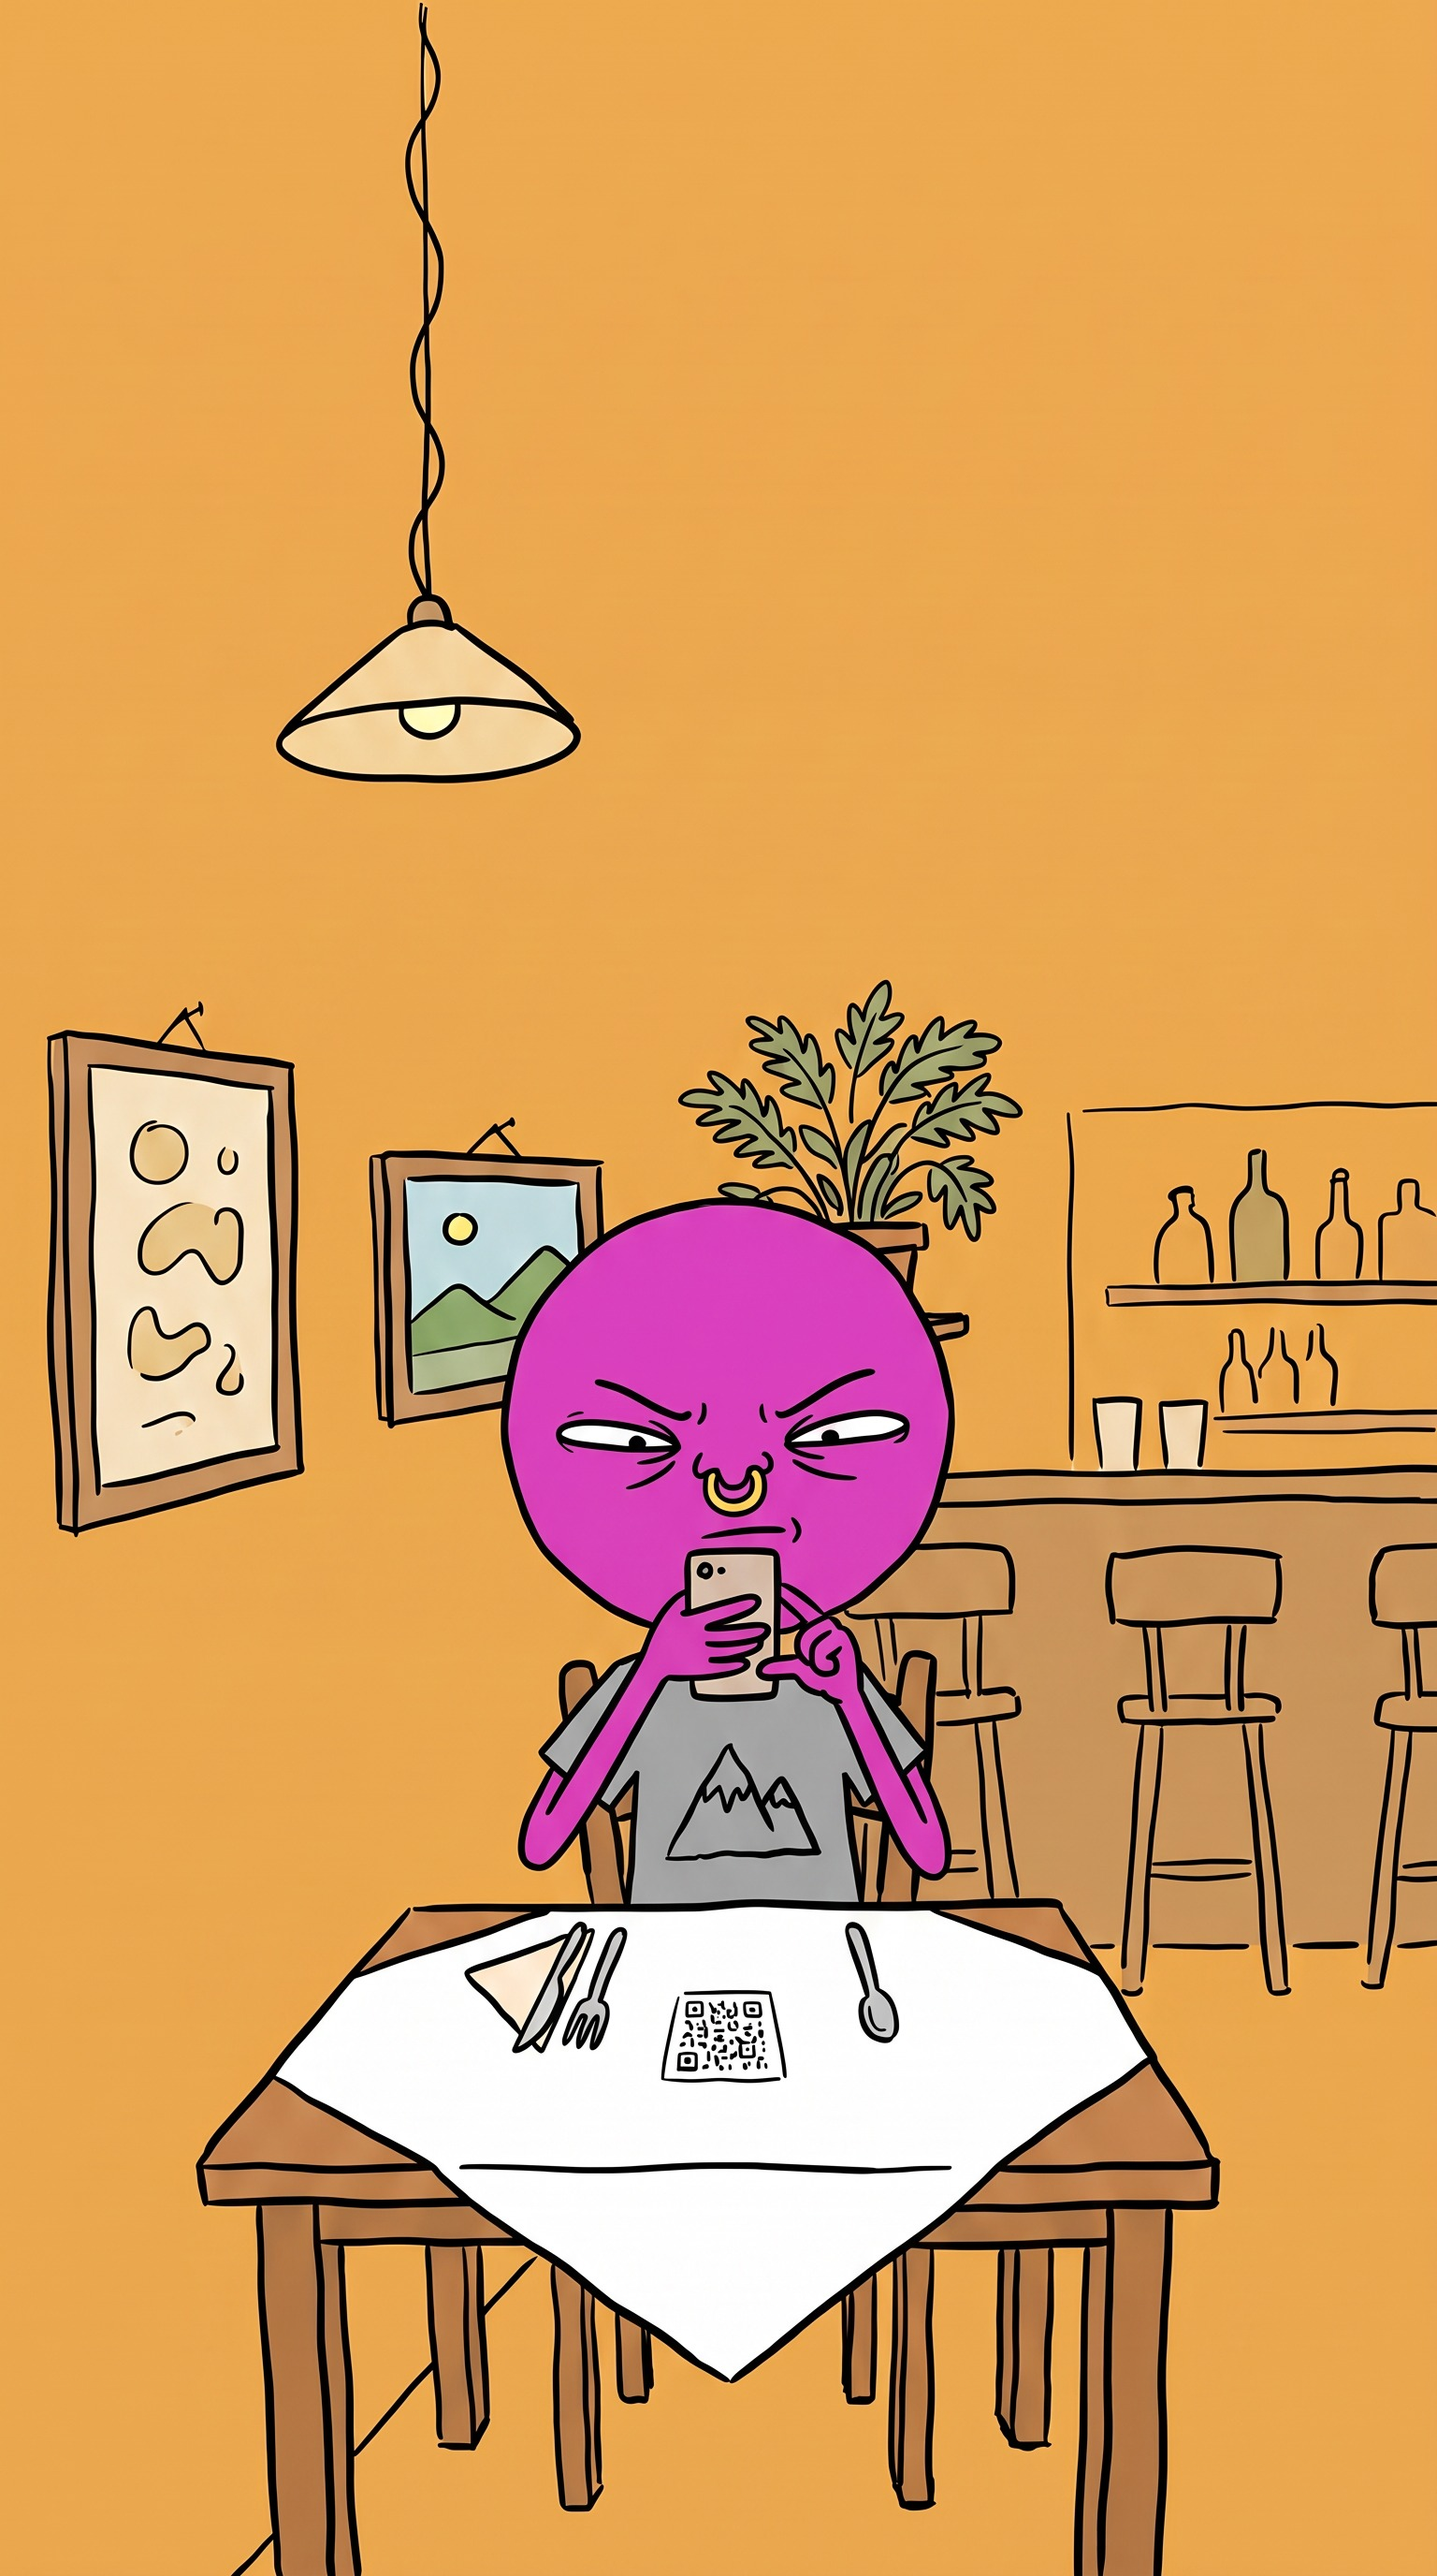
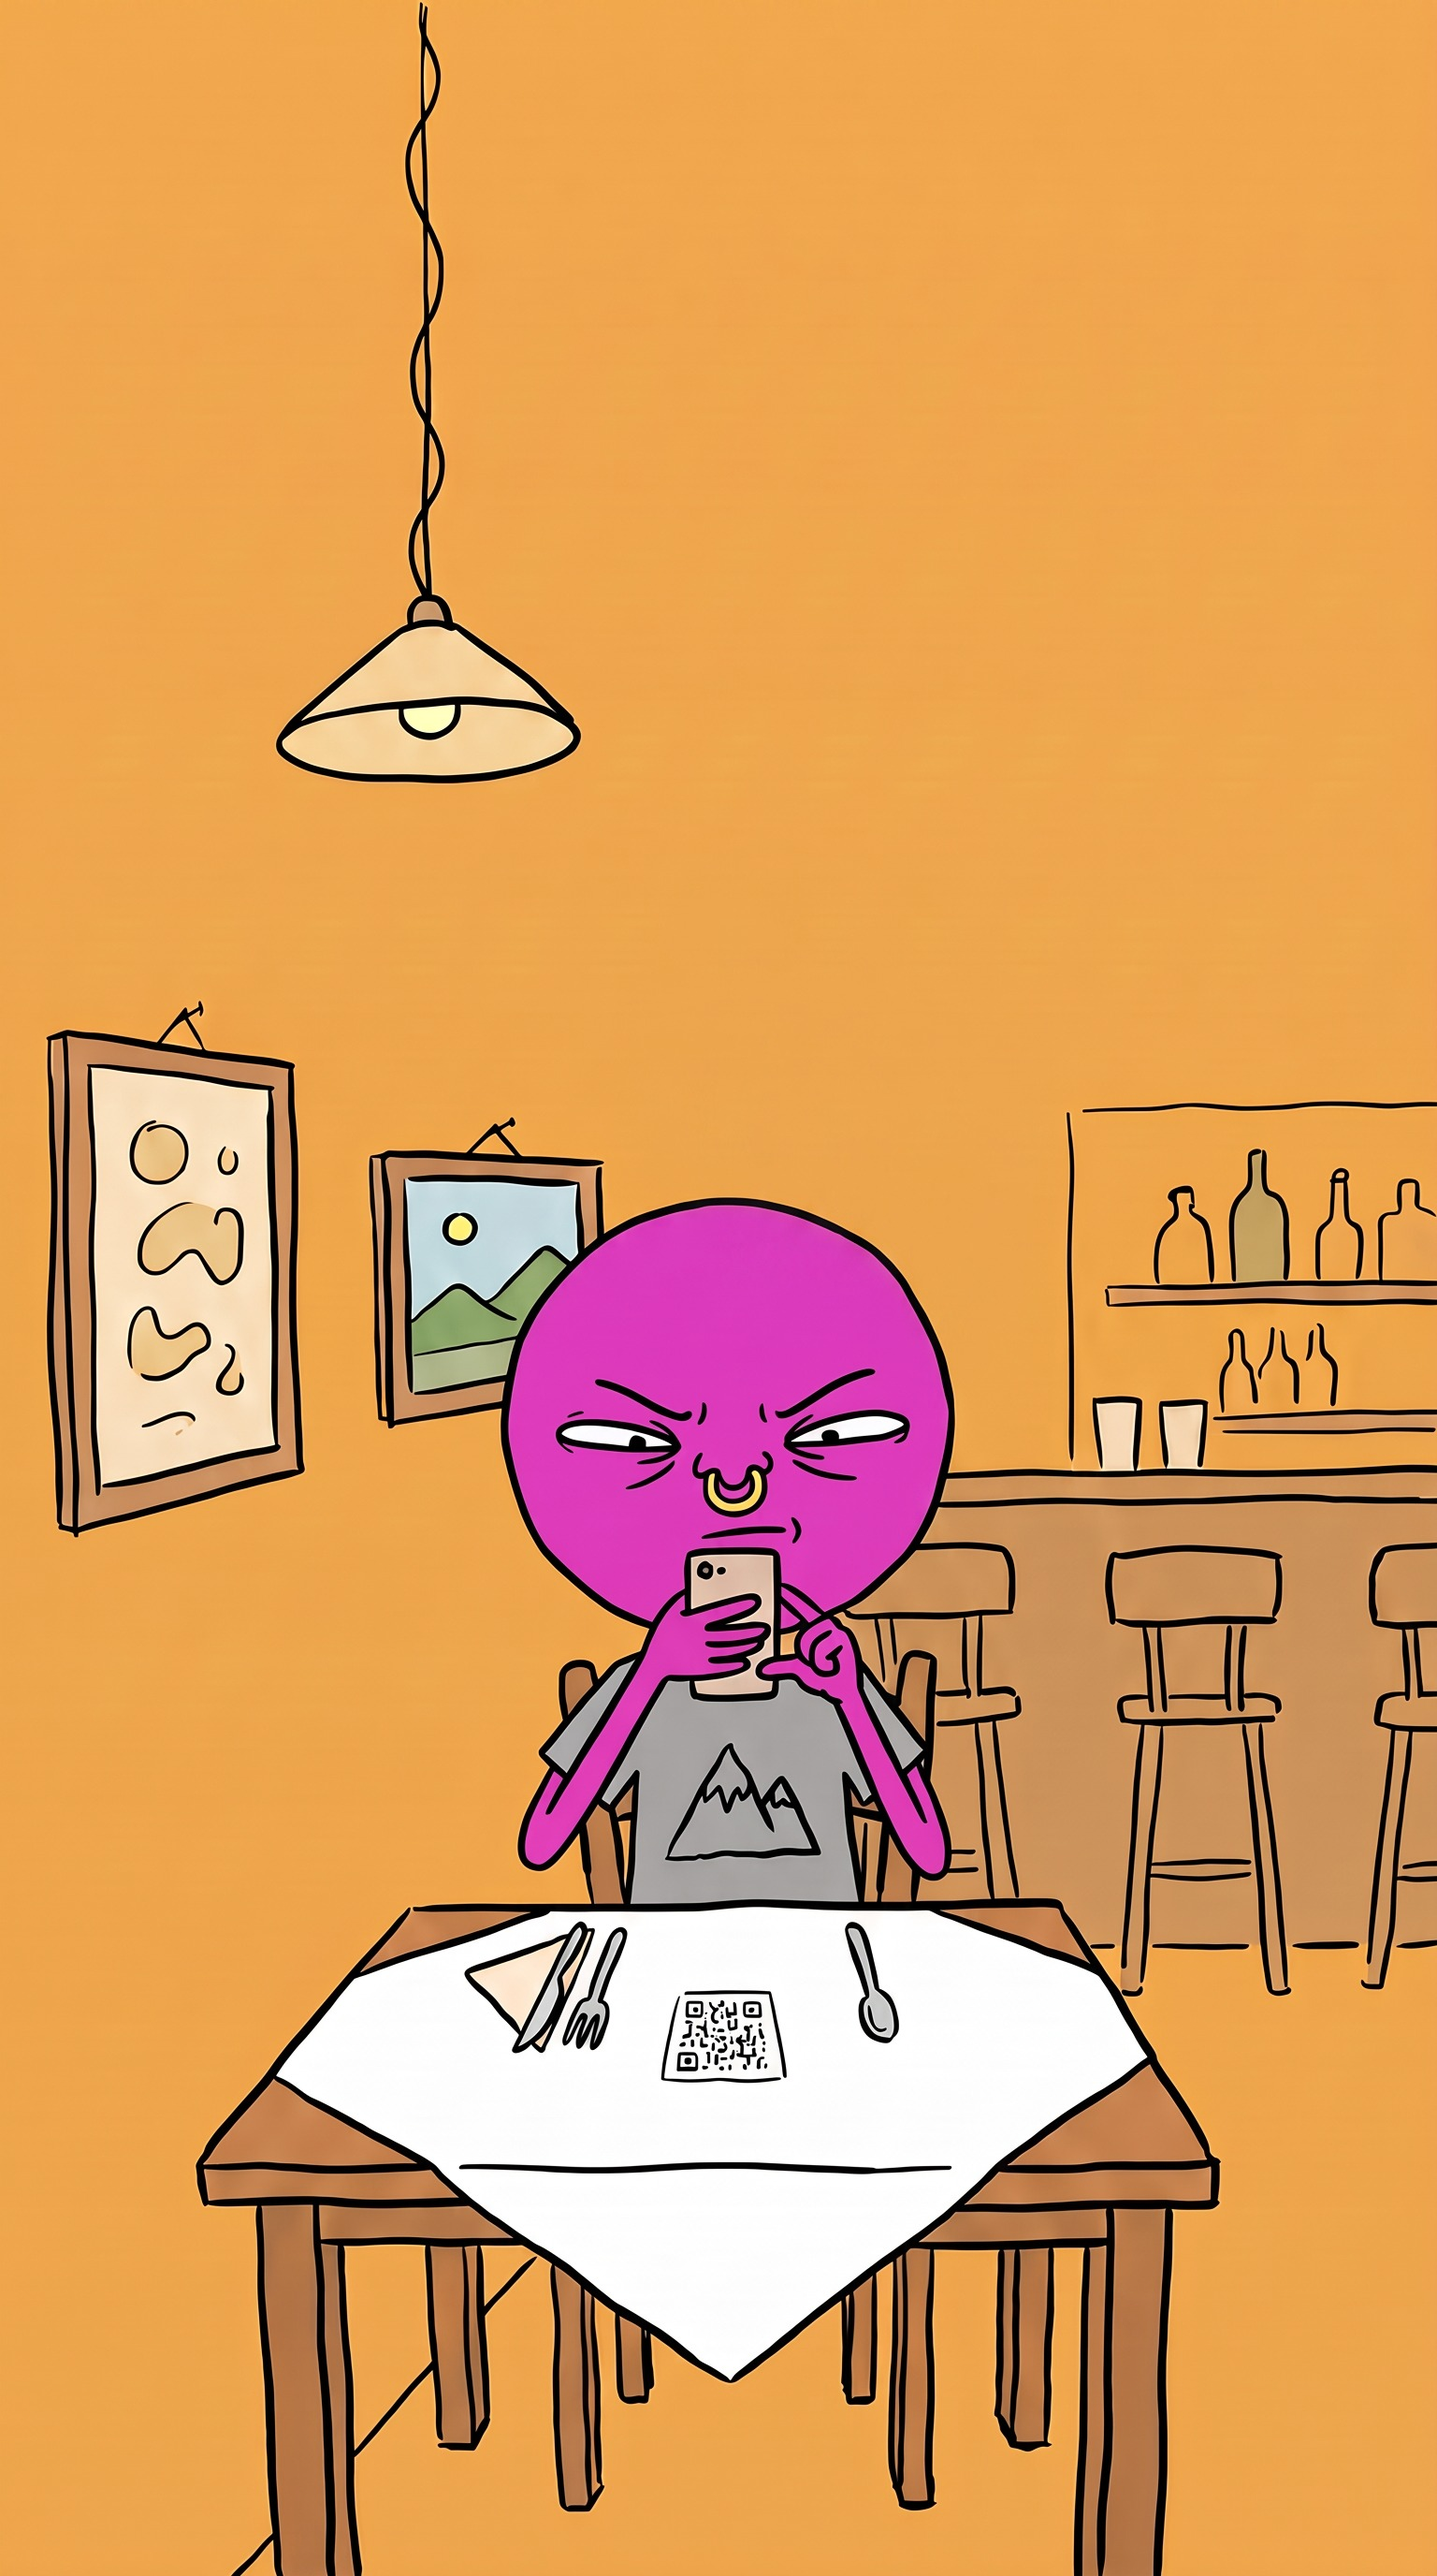
Vídeo del QR: sin la planta detrás de la cabeza, PDF sin letras falsas, plano nuevo en el formulario, final animado
Claude-Session: https://claude.ai/code/session_01W1d2B3tJHY5s1jRup8PdJX

Changed region(s): [[0.4688, 0.375, 0.7188, 0.5312], [0.4688, 0.7812, 0.5312, 0.8125], [0.375, 0.75, 0.4062, 0.7812]]

diff --git a/herramientas/video/qr_restaurante/plan.py b/herramientas/video/qr_restaurante/plan.py
@@ -22,17 +22,19 @@ P = [
  movil('br_cookies', 7.74, rotulos=[R(8.95, 'COOKiES', 540, 120, 'negro', 120)]),
  esc('es_cubiertos', 9.85, cambios=[ch(11.44, 'es_cubiertos_b')], boca_en=[I + 'es_cubiertos.jpg', I + 'es_cubiertos_b.jpg']),
  movil('br_acepto', 12.25),
- movil('br_form', 13.33, rotulos=[R(13.94, 'REGÍSTRATE', 540, 110, 'negro', 110),
-                                  D(16.25, 'NOMBRE', 960, 1124), D(16.81, 'CORREO', 960, 1356), D(17.6, 'FECHA', 960, 1581)]),
+ movil('br_form', 13.33, rotulos=[R(13.94, 'REGÍSTRATE', 540, 110, 'negro', 110)]),
+ esc('es_lee', 14.6, rotulos=[R(15.0, 'MEJOR EXPERiENCiA', 540, 150, 'negro', 85, caja=True)]),
+ movil('br_form', 16.2, rotulos=[R(15.6, 'REGÍSTRATE', 540, 110, 'negro', 110),
+                                 D(16.25, 'NOMBRE', 960, 1124), D(16.81, 'CORREO', 960, 1356), D(17.6, 'FECHA', 960, 1581)]),
  esc('es_serio', 18.88),
  movil('br_codigo', 20.09, cambios=[ch(22.15, 'br_cerrada')],
        rotulos=[D(20.56 + 0.12 * i, c, x, 1337, 'negro', 85, t1=22.15) for i, (c, x) in enumerate(zip('4815', (716, 880, 1045, 1201)))]),
  esc('es_escanea', 22.72, cambios=[ch(24.6, 'es_escanea_b')], boca_en=[I + 'es_escanea.jpg', I + 'es_escanea_b.jpg']),
  movil('br_pdf', 25.22, rotulos=[R(26.96, 'PDF', 540, 110, 'rojo', 160)]),
  esc('es_zum', 27.71, habla=False),
- br('br_pdf', 29.05, zoom=3.0, cx=0.494, cy=0.466, rotulos=[R(29.09, 'POSTRES', 540, 140, 'rojo', 130, caja=True)]),
+ br('br_pdf_postres', 29.05, zoom=1.0, rotulos=[R(29.09, 'POSTRES', 540, 140, 'rojo', 130, caja=True)]),
  esc('es_zum_b', 30.13, habla=False),
- br('br_pdf', 31.7, zoom=4.0, cx=0.5, cy=0.56, rotulos=[R(31.74, 'AViSO LEGAL', 540, 140, 'rojo', 120, caja=True)]),
+ br('br_pdf_legal', 31.7, zoom=1.0, rotulos=[R(31.74, 'AViSO LEGAL', 540, 140, 'rojo', 120, caja=True)]),
  esc('es_camarero', 32.87, zoom=1.25, cx=0.55, cambios=[ch(36.18, 'es_camarero_b')],
      boca_en=[I + 'es_camarero.jpg', I + 'es_camarero_b.jpg'], rotulos=[R(37.2, 'QR', 540, 130, 'negro', 140)]),
  br('br_memoria', 38.1, zoom=1.05, alterna=alt('br_memoria', 'br_memoria_b', 0.35)),
@@ -45,7 +47,7 @@ P = [
  esc('es_seguro', 49.98, cambios=[ch(52.1, 'es_seguro_b')], boca_en=[I + 'es_seguro.jpg', I + 'es_seguro_b.jpg']),
  esc('es_barra', 53.66, zoom=1.2, cx=0.5, rotulos=[R(55.07, 'EN EFECTiVO', 540, 120, 'negro', 110, caja=True)]),
  br('es_barra_b', 56.13, zoom=1.2, cx=0.55),
- br('es_barra_c', 57.91, zoom=1.2, cx=0.55),
+ br('es_barra_c', 57.91, zoom=1.2, cx=0.55, alterna=alt('es_barra_c', 'es_barra_c_b', 0.5)),
 ]
 json.dump({'alineacion': 'voz/qr.json', 'audio': 'voz/qr.mp3', 'pantalon': 'gris', 'sin_recolor': ['br_'], 'duracion': 61.4, 'planos': P},
           open('plan.json', 'w'), indent=1, ensure_ascii=False)

diff --git a/herramientas/video/qr_restaurante/preparar.py b/herramientas/video/qr_restaurante/preparar.py
@@ -6,15 +6,19 @@ import numpy as np
 from PIL import Image, ImageFilter
 from scipy import ndimage as ndi
 
-BASES = {'es_llega': 'es_llega_1', 'es_escanea': 'es_escanea_2', 'es_cubiertos': 'es_cubiertos_1', 'es_zum': 'es_zum_2',
-         'es_camarero': 'es_camarero_1', 'es_serio': 'es_serio_1', 'es_seguro': 'es_seguro_2', 'es_barra': 'es_barra_2',
+# bases sin la planta que salía detrás de su cabeza (sp_*); ANTES = el dibujo original del que salen sus variantes
+BASES = {'es_llega': 'sp_es_llega', 'es_escanea': 'sp_es_escanea', 'es_cubiertos': 'sp_es_cubiertos', 'es_zum': 'sp_es_zum',
+         'es_camarero': 'sp_es_camarero', 'es_serio': 'sp_es_serio', 'es_seguro': 'sp_es_seguro', 'es_barra': 'es_barra_2', 'es_lee': 'es_lee_2',
+         'es_camarero_c': 'sp_es_camarero_c', 'es_camarero_d': 'sp_es_camarero_d',
          'br_qr': 'qr_1', 'br_memoria': 'br_memoria_2', 'br_movil': 'movil_1'}
-TAL_CUAL = ['br_qr_ketchup', 'br_cookies', 'br_acepto', 'br_form', 'br_codigo', 'br_pdf', 'br_propina', 'br_seguro',
-            'br_cuenta', 'br_cuenta_b', 'es_camarero_c', 'es_camarero_d', 'es_barra_b', 'es_barra_c']
+TAL_CUAL = ['br_qr_ketchup', 'br_cookies', 'br_acepto', 'br_form', 'br_codigo', 'br_propina', 'br_seguro',
+            'br_cuenta', 'br_cuenta_b', 'es_barra_b', 'es_barra_c']
 VARIANTES = {'es_llega_b': 'es_llega', 'es_escanea_b': 'es_escanea', 'es_cubiertos_b': 'es_cubiertos', 'es_zum_b': 'es_zum',
              'es_camarero_b': 'es_camarero', 'es_seguro_b': 'es_seguro', 'br_cerrada': 'br_codigo'}
 SIN_PROTEGER = {'es_seguro_b', 'br_cerrada'}
-BOCAS = [b + s for b in ['es_llega', 'es_escanea', 'es_cubiertos', 'es_serio', 'es_zum', 'es_camarero', 'es_seguro', 'es_barra']
+ANTES = {'es_llega': 'es_llega_1', 'es_escanea': 'es_escanea_2', 'es_cubiertos': 'es_cubiertos_1', 'es_zum': 'es_zum_2',
+         'es_seguro': 'es_seguro_2'}
+BOCAS = [b + s for b in ['es_llega', 'es_escanea', 'es_cubiertos', 'es_serio', 'es_zum', 'es_camarero', 'es_seguro', 'es_barra', 'es_lee']
          for s in ('_boca', '_bocao')]
 os.makedirs('img', exist_ok=True)
 
@@ -59,6 +63,9 @@ for nom, base in VARIANTES.items():
     if nom not in SIN_PROTEGER:
         for (x, y, r) in cabezas(a):
             prot |= disco(d.shape, x, y, r * 1.08)
+    if base in ANTES:  # donde se borró la planta, la variante no debe volver a pintarla
+        o = np.asarray(Image.open(f'crudo/{ANTES[base]}.png').convert('RGB').resize(A.size)).astype(int)
+        prot |= ndi.binary_dilation(np.abs(o - a).max(2) > 30, iterations=6)
     d &= ~prot
     d = ndi.binary_opening(d, iterations=2)
     lab, n = ndi.label(ndi.binary_dilation(d, iterations=8))

diff --git a/herramientas/video/qr_restaurante/pdf_limpio.py b/herramientas/video/qr_restaurante/pdf_limpio.py
@@ -1,0 +1,45 @@
+"""PDF de la carta sin letras (la IA escribió palabras en inglés): cada línea de texto pasa a raya gris; y dos
+zooms como página limpia (postres y aviso legal) para los planos de «hago zum»."""
+import numpy as np
+from PIL import Image, ImageDraw
+from scipy import ndimage as ndi
+
+im = Image.open('crudo/br_pdf.png').convert('RGB')
+a = np.asarray(im).astype(int)
+X0, Y0, X1, Y1 = 454, 495, 1077, 1598          # pantalla
+sub = a[Y0:Y1, X0:X1]
+sat = sub.max(2) - sub.min(2)
+texto = (sub.max(2) < 170) & (sat < 110)
+# los dibujos (croquetas, tarta) tienen color: se respeta su caja entera (con margen)
+color = np.zeros(sat.shape, bool)
+lc, nc = ndi.label(sat > 60)
+for sl, t in zip(ndi.find_objects(lc), ndi.sum(sat > 60, lc, range(1, nc + 1))):
+    if t > 1500:
+        color[max(0, sl[0].start - 25):sl[0].stop + 25, max(0, sl[1].start - 40):sl[1].stop + 40] = True
+texto &= ~color
+lin = ndi.binary_dilation(texto, structure=np.ones((3, 25)))
+lab, n = ndi.label(lin)
+out = im.copy()
+d = ImageDraw.Draw(out)
+for sl in ndi.find_objects(lab):
+    y0, y1, x0, x1 = sl[0].start, sl[0].stop, sl[1].start, sl[1].stop
+    if y1 - y0 > 40:
+        continue
+    d.rectangle((X0 + x0, Y0 + y0, X0 + x1, Y0 + y1), fill=(255, 255, 255))
+    cy = Y0 + (y0 + y1) / 2
+    hh = max(3, (y1 - y0) * 0.28)
+    d.rounded_rectangle((X0 + x0 + 4, cy - hh, X0 + x1 - 4, cy + hh), radius=hh, fill=(185, 185, 185))
+out.save('img/br_pdf.jpg', quality=92)
+
+
+def zoom(y0, y1, nombre, x0=X0 + 6, x1=X1 - 6):
+    trozo = out.crop((x0, y0, x1, y1))
+    k = 1080 / trozo.width
+    t = trozo.resize((1080, round(trozo.height * k)), Image.LANCZOS)
+    lienzo = Image.new('RGB', (1080, 1920), (255, 255, 255))
+    lienzo.paste(t, (0, (1920 - t.height) // 2 + 120))
+    lienzo.save(f'img/{nombre}.jpg', quality=92)
+
+
+zoom(1215, 1420, 'br_pdf_postres', 560, 990)
+zoom(1470, 1560, 'br_pdf_legal', 470, 820)
